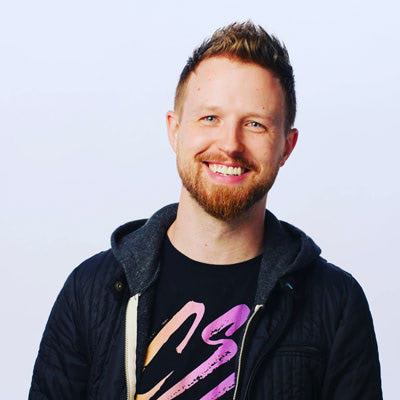
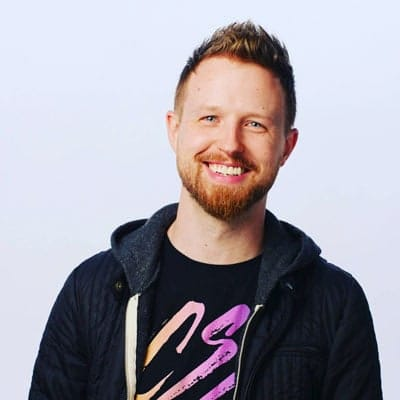
Add index.html and optimize few images

diff --git a/index.html b/index.html
@@ -1,0 +1,10 @@
+<!DOCTYPE html>
+<html lang="en">
+  <head>
+    <meta charset="UTF-8" />
+    <meta http-equiv="X-UA-Compatible" content="IE=edge" />
+    <meta name="viewport" content="width=device-width, initial-scale=1.0" />
+    <title>Image CEDEENE</title>
+  </head>
+  <body></body>
+</html>
